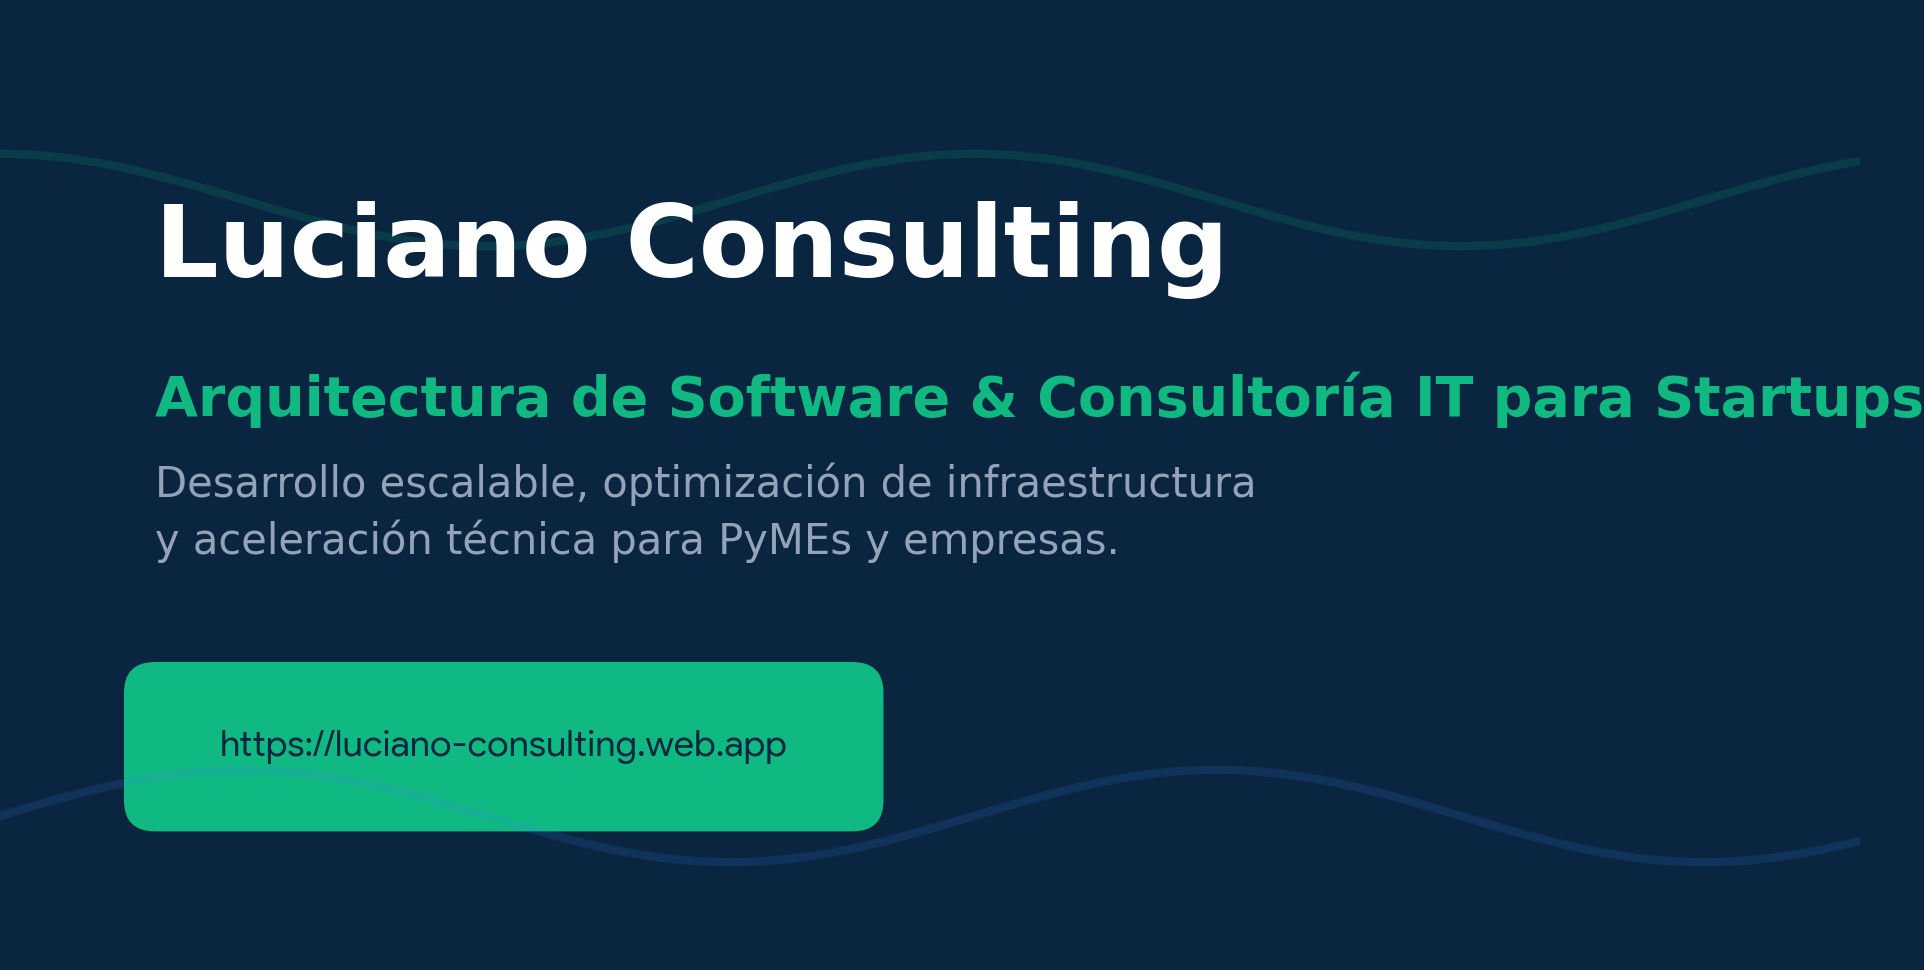
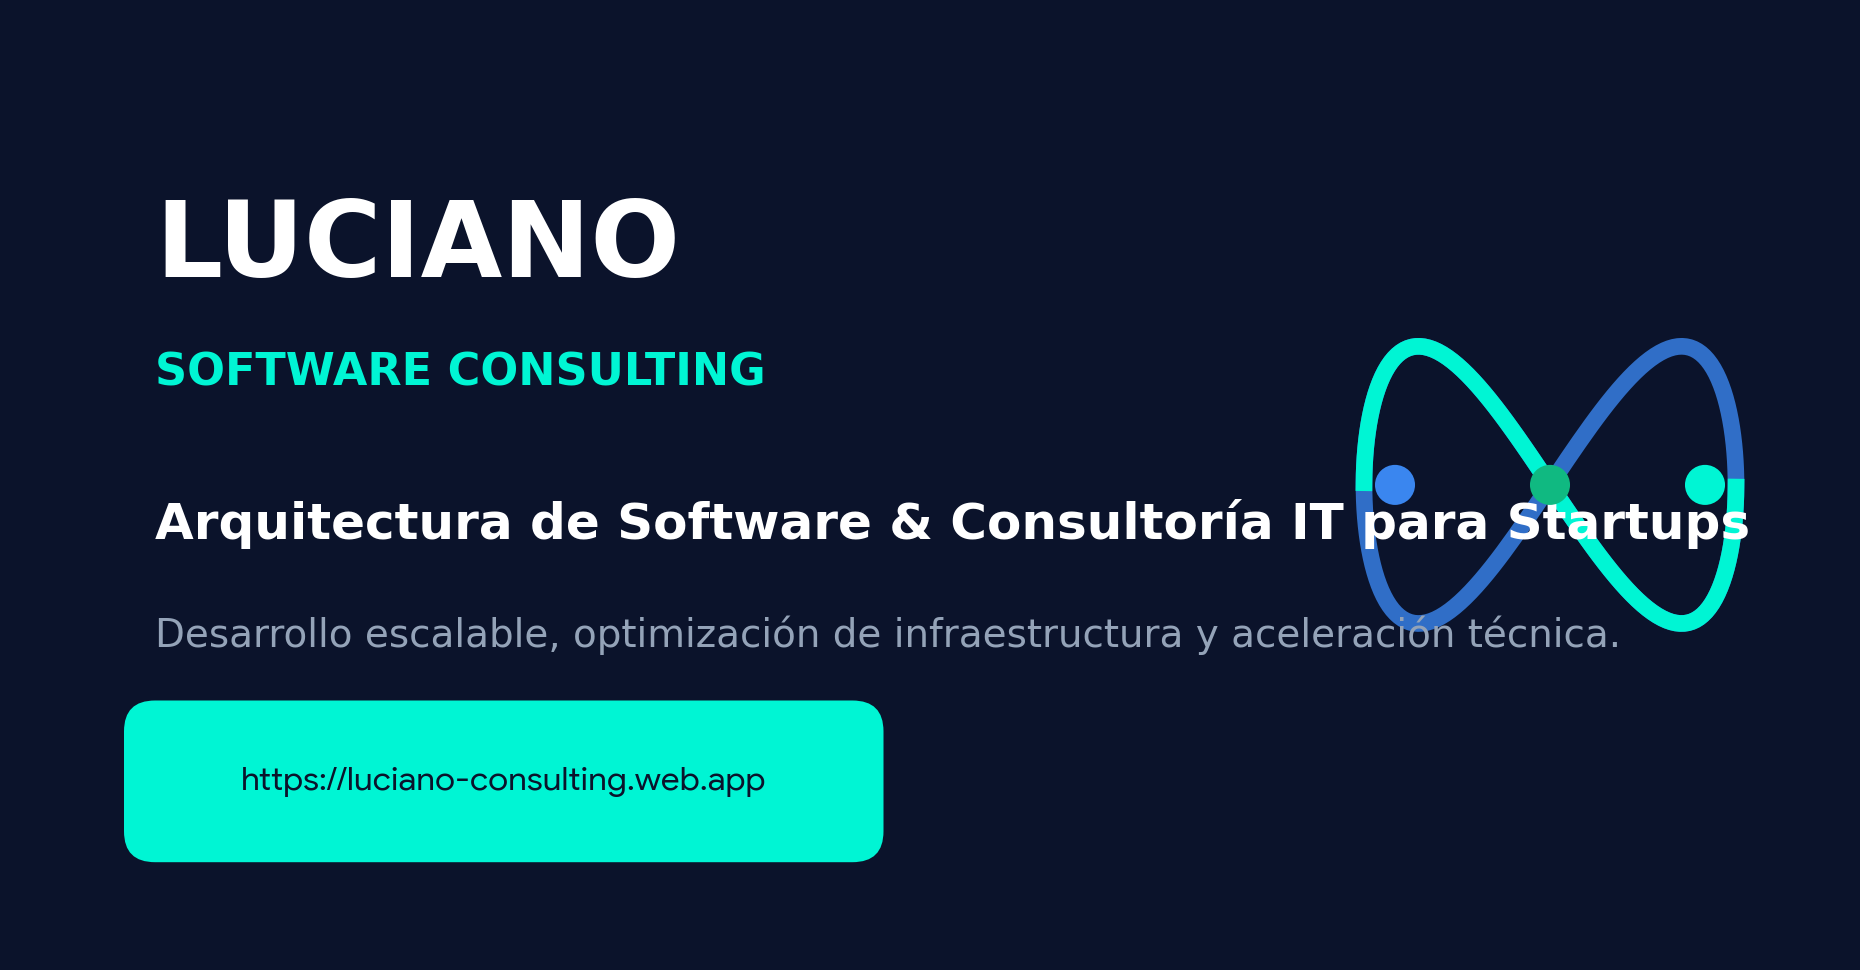
Swap to v2 brand assets and refreshed color palette
Replace the v1 "LC" block mark with the v2 infinity-loop logo and
LUCIANO / Software Consulting wordmark. Update brand tokens to the v2
navy/teal/blue palette and split accent usage: teal for dark-section
CTAs (better contrast than the previous blue), blue for light-section
accents.

Claude-Session: https://claude.ai/code/session_01Rcg4LWr1jg9NaTeikgwsXx

diff --git a/src/styles/global.css b/src/styles/global.css
@@ -2,7 +2,9 @@
 
 @theme {
   --font-sans: "Inter", ui-sans-serif, system-ui, sans-serif;
-  --color-brand-navy: #0a2540;
+  --color-brand-navy: #0b132b;
+  --color-brand-blue: #357adb;
+  --color-brand-teal: #00f5d4;
 }
 
 html {
